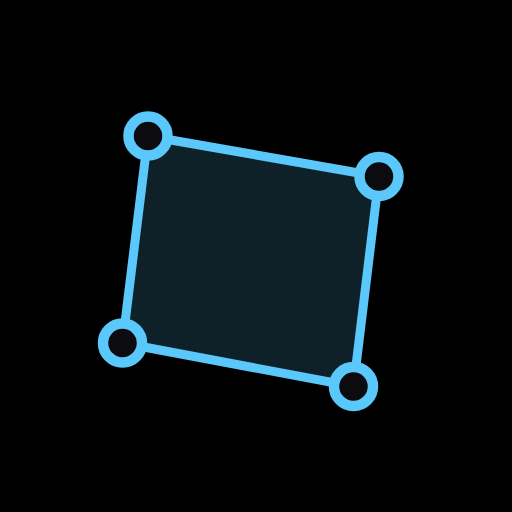
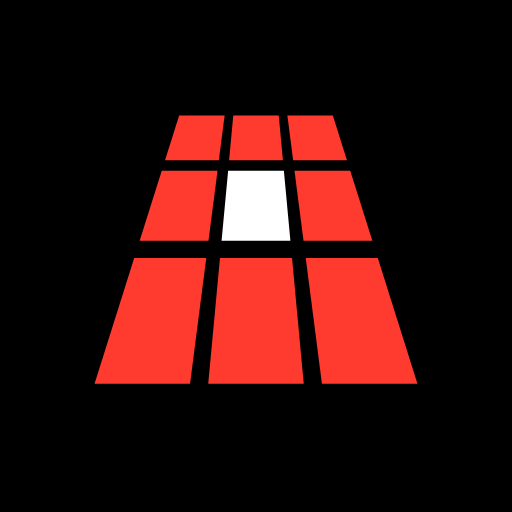
redraw the mark as a projected pixel grid

Changed region(s): [[0.1875, 0.2188, 0.8125, 0.8125]]

diff --git a/packages/editor/Icon.svelte b/packages/editor/Icon.svelte
@@ -15,13 +15,23 @@
     <path d="M12 .5C5.37.5 0 5.87 0 12.5c0 5.3 3.44 9.8 8.21 11.39.6.11.82-.26.82-.58v-2.03c-3.34.73-4.04-1.61-4.04-1.61-.55-1.39-1.34-1.76-1.34-1.76-1.09-.75.08-.73.08-.73 1.21.09 1.84 1.24 1.84 1.24 1.07 1.84 2.81 1.31 3.5 1 .11-.78.42-1.31.76-1.61-2.67-.3-5.47-1.34-5.47-5.96 0-1.32.47-2.39 1.24-3.23-.12-.3-.54-1.52.12-3.17 0 0 1.01-.32 3.3 1.23a11.5 11.5 0 0 1 6 0c2.29-1.55 3.3-1.23 3.3-1.23.66 1.65.24 2.87.12 3.17.77.84 1.24 1.91 1.24 3.23 0 4.63-2.8 5.65-5.48 5.95.43.37.81 1.1.81 2.22v3.29c0 .32.22.7.83.58A12.01 12.01 0 0 0 24 12.5C24 5.87 18.63.5 12 .5z"/>
   </svg>
 {:else if name === 'mark'}
-  <!-- A marca do app: um quad em perspectiva com as quatro alças. -->
-  <svg viewBox="0 0 24 24" fill="none" class={klass} aria-hidden="true">
-    <path d="M5.5 4.5 19 6.8 17.6 19 3.6 17.3Z" stroke="currentColor" stroke-width="1.4" stroke-linejoin="round" opacity="0.9"/>
-    <circle cx="5.5" cy="4.5" r="1.8" fill="currentColor"/>
-    <circle cx="19" cy="6.8" r="1.8" fill="currentColor"/>
-    <circle cx="17.6" cy="19" r="1.8" fill="currentColor"/>
-    <circle cx="3.6" cy="17.3" r="1.8" fill="currentColor"/>
+  <!--
+    A marca: um grid de pixels deformado pela mesma homografia que a ferramenta
+    aplica. Um quadrado girado seria um grid girado; um que converge é um grid
+    *jogado em cima de alguma coisa* — e essa diferença é a marca inteira.
+    A célula acesa usa currentColor para contrastar no tema claro e no escuro;
+    as outras são vermelhas em qualquer um.
+  -->
+  <svg viewBox="0 0 24 24" fill="#ff3b30" class={klass} aria-hidden="true">
+      <polygon points="7.39,3.57 10.12,3.57 9.77,6.25 6.54,6.25"/>
+      <polygon points="10.64,3.57 13.36,3.57 13.61,6.25 10.39,6.25"/>
+      <polygon points="13.88,3.57 16.61,3.57 17.46,6.25 14.23,6.25"/>
+      <polygon points="6.35,6.88 9.69,6.88 9.15,11.08 5.02,11.08"/>
+      <polygon points="10.33,6.88 13.67,6.88 14.06,11.08 9.94,11.08" fill="currentColor"/>
+      <polygon points="14.31,6.88 17.65,6.88 18.98,11.08 14.85,11.08"/>
+      <polygon points="4.69,12.12 9.02,12.12 8.04,19.66 2.31,19.66"/>
+      <polygon points="9.84,12.12 14.16,12.12 14.87,19.66 9.13,19.66"/>
+      <polygon points="14.98,12.12 19.31,12.12 21.69,19.66 15.96,19.66"/>
   </svg>
 {:else}
   <svg viewBox="0 0 24 24" fill="none" stroke="currentColor" stroke-width="1.8"

diff --git a/index.html b/index.html
@@ -26,7 +26,7 @@
     <meta property="og:image" content="https://rosaerick.github.io/map-engine/og.png" />
     <meta property="og:image:width" content="1200" />
     <meta property="og:image:height" content="630" />
-    <meta property="og:image:alt" content="A perspective quadrilateral with four corner handles on a black background." />
+    <meta property="og:image:alt" content="A red pixel grid receding in perspective, with one cell lit white." />
     <meta property="og:locale" content="en_US" />
     <meta property="og:locale:alternate" content="pt_BR" />
     <meta property="og:locale:alternate" content="es_ES" />

diff --git a/packages/editor/TopBar.svelte b/packages/editor/TopBar.svelte
@@ -23,7 +23,7 @@
 
 <header class="flex h-11 items-center gap-3 border-b border-base-300 bg-base-100 pl-3 pr-2">
   <div class="flex items-center gap-2">
-    <Icon name="mark" class="size-5 text-primary" />
+    <Icon name="mark" class="size-5" />
     <span class="text-sm font-semibold tracking-tight">{t('app.name')}</span>
   </div>
 

diff --git a/docs/CHANGELOG.md b/docs/CHANGELOG.md
@@ -54,6 +54,14 @@ arquivo único anexado.
 - Exemplo executável em `examples/embed/`: um canvas, um `Project`, e frames saindo
   em trinta linhas.
 
+**Marca**
+- Ícone novo: um grid de pixels vermelho deformado pela **mesma homografia que a
+  ferramenta aplica** — `scripts/mark.mjs` importa `solveUnitToQuad` da engine para
+  desenhá-lo. Um quadrado girado seria um grid girado; um que converge é um grid jogado
+  em cima de alguma coisa. Uma célula acesa é a superfície já mapeada.
+- A mesma marca no ícone do app, na barra de cima e no cartão de compartilhamento. Na
+  interface a célula acesa usa `currentColor`, então contrasta no tema claro e no escuro.
+
 **Descoberta**
 - Título, descrição, Open Graph, Twitter card e cartão de compartilhamento 1200×630.
 - Dados estruturados `SoftwareApplication` declarando `price: 0` e
